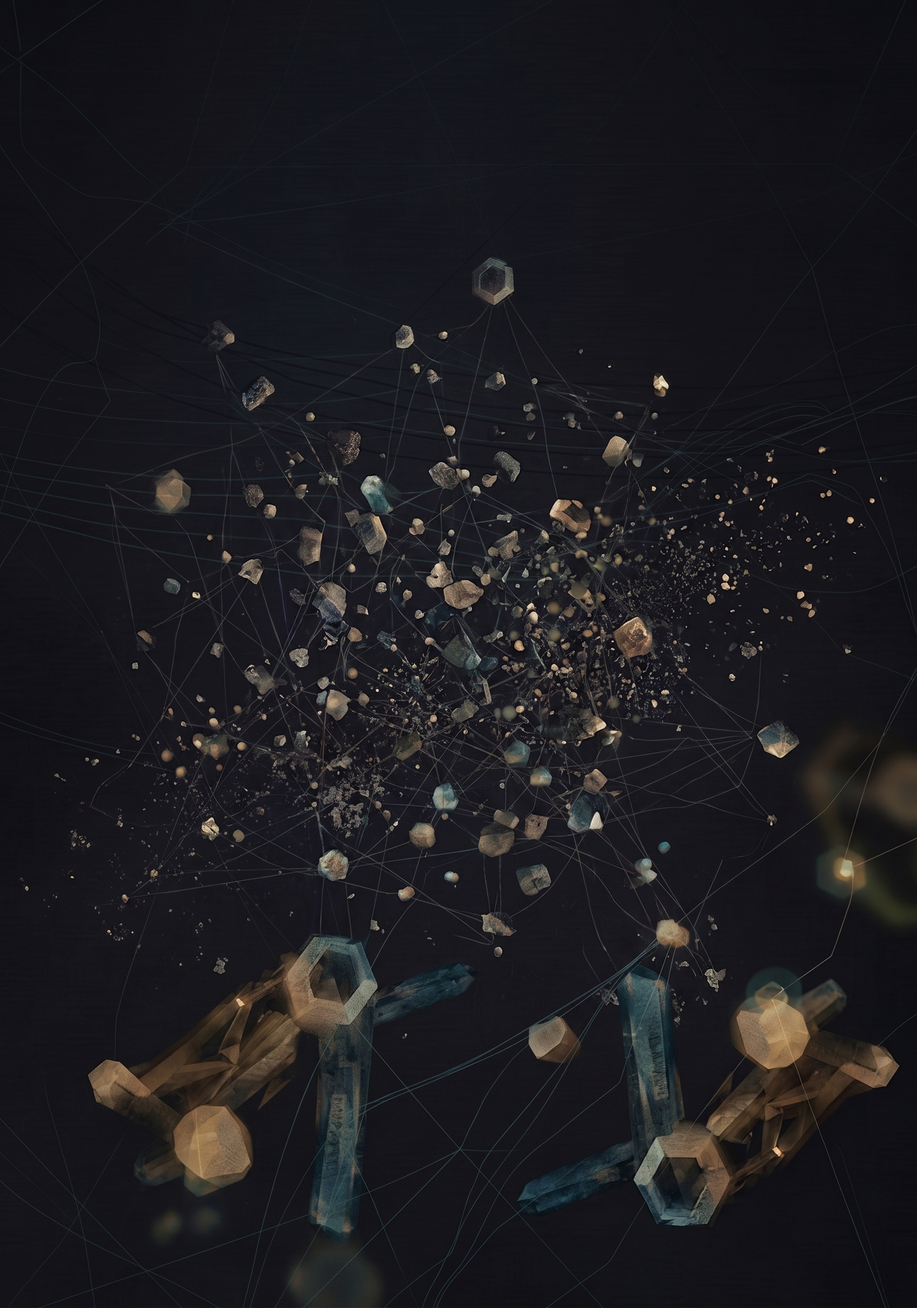
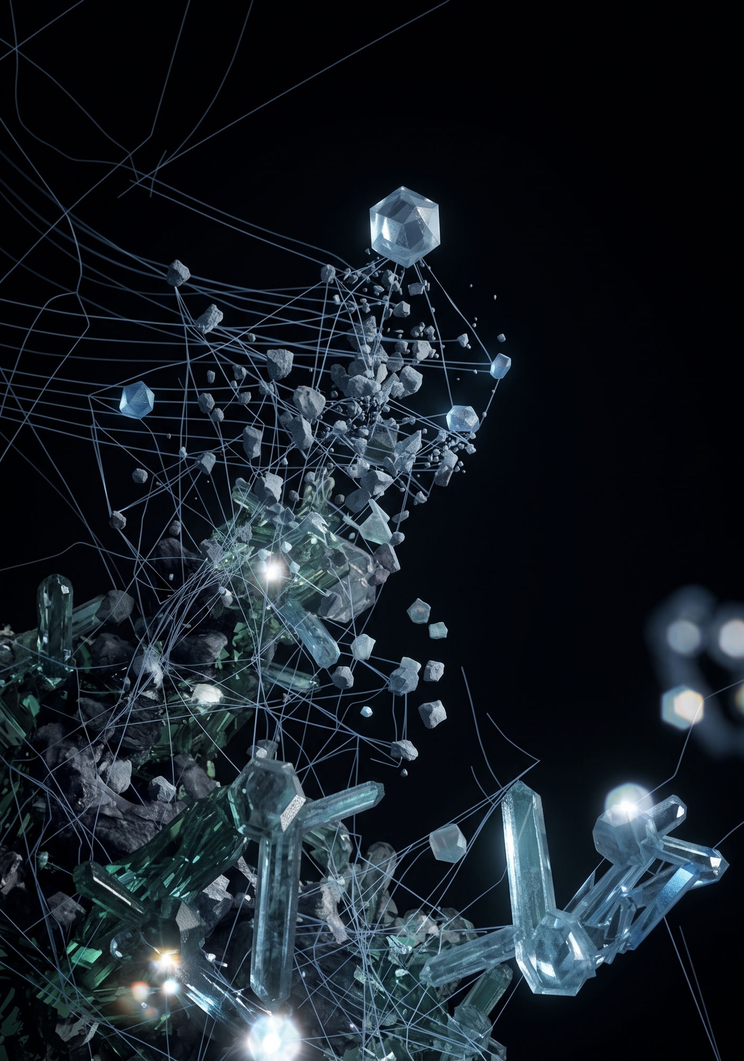
Final page BGs, dial back hero tint overcorrection, carbon-style modals, slower highlight sweep
- page-structure-dark/light.jpeg: swapped to the final crystal-network
  renders ("this will be for now the final one").
- Hero light-theme tint: previous fix (0.9/0.82/0.88) overcorrected and
  hid the software screenshot entirely (live feedback: "die software
  auch garnicht mehr im hero... vollkommen überschattet") - settled at
  0.62/0.52/0.6, lighter than the original muddy wash but the photo
  stays visible. Also flattened the gradient's dip at the 52% stop,
  which was the likely source of the original dark smudge under the
  headline.
- Identity-line contrast bar: sweep-in slowed from 0.55s to 1.3s (live
  feedback: "sollte doch von links nach rechts reinfahren und nicht so
  schnell einklappen").
- intelModal + reportModal: rebuilt onto the canonical always-dark
  carbon-gradient panel (same as checkout/proposal modals) with fixed
  light-hex text instead of var(--text*) tokens - those resolve dark in
  light mode and read as illegible dark-on-navy. Live feedback: ledger
  entry modals were "vollkommen schlecht" in white mode and "auch
  nichtmal in dem carbon style".

diff --git a/frontend/src/components/PublicSite.tsx b/frontend/src/components/PublicSite.tsx
@@ -733,10 +733,19 @@ export function PublicSite({ initialSection }: { initialSection?: string | null 
         // 2026-08-14: that's "the canonical template", this one was still the older
         // flat rgba(0,0,0,0.85) dim with no blur - now the same blur(14px) treatment).
         <div className="rfi-modal-backdrop" onClick={() => setReportModal(null)} style={{ position: 'fixed', inset: 0, zIndex: 9998, background: 'rgba(4,4,7,0.7)', backdropFilter: 'blur(14px)', WebkitBackdropFilter: 'blur(14px)', display: 'flex', flexDirection: 'column', alignItems: 'center', justifyContent: 'center', padding: '1rem' }}>
-          <div className="rfi-modal-panel" onClick={e => e.stopPropagation()} style={{ width: '100%', maxWidth: 900, height: '85vh', background: '#0e0e1e', border: '1px solid rgba(0,245,196,0.25)', borderRadius: 10, overflow: 'hidden', display: 'flex', flexDirection: 'column' }}>
-            <div style={{ display: 'flex', alignItems: 'center', justifyContent: 'space-between', padding: '10px 16px', borderBottom: '1px solid var(--border)', background: '#0a0a18' }}>
-              <span style={{ fontFamily: "'JetBrains Mono', monospace", fontSize: 11, color: 'var(--accent-text)', letterSpacing: '0.08em', textTransform: 'uppercase' }}>{t.reportModal.label}</span>
-              <button onClick={() => setReportModal(null)} style={{ background: 'none', border: 'none', color: 'var(--text3)', cursor: 'pointer', fontSize: 18, lineHeight: 1, padding: '2px 6px' }}>&#x2715;</button>
+          {/* Same always-dark carbon chrome as the checkout/intel modals (live
+              feedback 2026-08-14) - fixed light hex text, not var(--text*)/var(--accent-text),
+              which resolve dark in light mode and went illegible against this panel. */}
+          <div className="rfi-modal-panel" onClick={e => e.stopPropagation()} style={{
+            width: '100%', maxWidth: 900, height: '85vh', overflow: 'hidden', display: 'flex', flexDirection: 'column',
+            background: 'linear-gradient(155deg, #17171d 0%, #0a0a0c 28%, #050506 52%, #131319 76%, #08080a 100%), repeating-linear-gradient(112deg, rgba(255,255,255,0.04) 0px, rgba(255,255,255,0.04) 1px, transparent 1px, transparent 3px)',
+            backgroundBlendMode: 'overlay',
+            boxShadow: 'inset 0 1px 0 rgba(255,255,255,0.06), inset 0 0 50px rgba(0,0,0,0.55), 0 20px 60px rgba(0,0,0,0.65)',
+            border: '1px solid rgba(255,255,255,0.08)', borderRadius: 14,
+          }}>
+            <div style={{ display: 'flex', alignItems: 'center', justifyContent: 'space-between', padding: '10px 16px', borderBottom: '1px solid rgba(255,255,255,0.1)' }}>
+              <span style={{ fontFamily: "'JetBrains Mono', monospace", fontSize: 11, color: TEAL, letterSpacing: '0.08em', textTransform: 'uppercase' }}>{t.reportModal.label}</span>
+              <button onClick={() => setReportModal(null)} style={{ background: 'none', border: 'none', color: '#8a8aa0', cursor: 'pointer', fontSize: 18, lineHeight: 1, padding: '2px 6px' }}>&#x2715;</button>
             </div>
             <iframe src={reportModal} style={{ flex: 1, border: 'none', width: '100%' }} title={t.reportModal.iframeTitle} />
           </div>
@@ -757,10 +766,23 @@ export function PublicSite({ initialSection }: { initialSection?: string | null 
           // Blurred backdrop to match the checkout/proposal modals - same reasoning
           // as the Report PDF modal above.
           <div className="rfi-modal-backdrop" onClick={() => setIntelModal(null)} style={{ position: 'fixed', inset: 0, zIndex: 9998, background: 'rgba(4,4,7,0.7)', backdropFilter: 'blur(14px)', WebkitBackdropFilter: 'blur(14px)', display: 'flex', flexDirection: 'column', alignItems: 'center', justifyContent: 'center', padding: '1rem' }}>
-            <div className="rfi-modal-panel" onClick={e => e.stopPropagation()} style={{ width: '100%', maxWidth: 640, maxHeight: '85vh', background: '#0e0e1e', border: '1px solid rgba(0,245,196,0.25)', borderRadius: 10, overflow: 'hidden', display: 'flex', flexDirection: 'column' }}>
-              <div style={{ display: 'flex', alignItems: 'center', justifyContent: 'space-between', padding: '14px 20px', borderBottom: '1px solid var(--border)', background: '#0a0a18' }}>
-                <div style={{ fontFamily: "'JetBrains Mono', monospace", fontSize: 9, color: 'var(--text3)', textTransform: 'uppercase', letterSpacing: '0.06em' }}>{intelModal.target} · {intelModal.market} · {intelModal.sev}</div>
-                <button onClick={() => setIntelModal(null)} style={{ background: 'none', border: 'none', color: 'var(--text3)', cursor: 'pointer', fontSize: 18, lineHeight: 1, padding: '2px 6px' }}>&#x2715;</button>
+            {/* Same canonical carbon-gradient template as the checkout/proposal modals
+                (live feedback 2026-08-14: this one was still on a flat hardcoded navy
+                panel, "auch nichtmal in dem carbon style") - and, same as those, this
+                chrome is deliberately always-dark independent of the site theme
+                toggle, so every text color inside is a fixed light hex, NOT a
+                var(--text*) token (those resolve to near-black in light mode and read
+                as illegible dark-on-navy - the actual light-mode contrast bug). */}
+            <div className="rfi-modal-panel" onClick={e => e.stopPropagation()} style={{
+              width: '100%', maxWidth: 640, maxHeight: '85vh', overflow: 'hidden', display: 'flex', flexDirection: 'column',
+              background: 'linear-gradient(155deg, #17171d 0%, #0a0a0c 28%, #050506 52%, #131319 76%, #08080a 100%), repeating-linear-gradient(112deg, rgba(255,255,255,0.04) 0px, rgba(255,255,255,0.04) 1px, transparent 1px, transparent 3px)',
+              backgroundBlendMode: 'overlay',
+              boxShadow: 'inset 0 1px 0 rgba(255,255,255,0.06), inset 0 0 50px rgba(0,0,0,0.55), 0 20px 60px rgba(0,0,0,0.65)',
+              border: '1px solid rgba(255,255,255,0.08)', borderRadius: 14,
+            }}>
+              <div style={{ display: 'flex', alignItems: 'center', justifyContent: 'space-between', padding: '14px 20px', borderBottom: '1px solid rgba(255,255,255,0.1)' }}>
+                <div style={{ fontFamily: "'JetBrains Mono', monospace", fontSize: 9, color: '#606080', textTransform: 'uppercase', letterSpacing: '0.06em' }}>{intelModal.target} · {intelModal.market} · {intelModal.sev}</div>
+                <button onClick={() => setIntelModal(null)} style={{ background: 'none', border: 'none', color: '#8a8aa0', cursor: 'pointer', fontSize: 18, lineHeight: 1, padding: '2px 6px' }}>&#x2715;</button>
               </div>
               <div style={{ padding: '20px 22px', overflowY: 'auto' }}>
                 {/* Newspaper-style headline - the thing a visitor with zero technical
@@ -768,12 +790,12 @@ export function PublicSite({ initialSection }: { initialSection?: string | null 
                     nothing (meaning paragraph just runs first, as before) until every
                     ledger entry has one written - Simeon, 2026-08-08. */}
                 {intelModal.headline && (
-                  <h3 style={{ fontSize: 22, lineHeight: 1.3, fontWeight: 800, color: 'var(--text)', margin: '0 0 12px' }}>{intelModal.headline}</h3>
+                  <h3 style={{ fontSize: 22, lineHeight: 1.3, fontWeight: 800, color: '#e8e8f0', margin: '0 0 12px' }}>{intelModal.headline}</h3>
                 )}
-                <p style={{ fontSize: 15, lineHeight: 1.7, color: 'var(--text)', margin: 0 }}>{meaning}</p>
-                <div style={{ marginTop: 20, paddingTop: 14, borderTop: '1px solid var(--border2)' }}>
-                  <div style={{ fontFamily: "'JetBrains Mono', monospace", fontSize: 9, color: 'var(--text4)', textTransform: 'uppercase', letterSpacing: '0.08em', marginBottom: 6 }}>{t.intelModal.evidenceLabel}</div>
-                  <p style={{ fontFamily: "'JetBrains Mono', monospace", fontSize: 11, lineHeight: 1.6, color: 'var(--text3)', margin: 0 }}>{technical}</p>
+                <p style={{ fontSize: 15, lineHeight: 1.7, color: '#e8e8f0', margin: 0 }}>{meaning}</p>
+                <div style={{ marginTop: 20, paddingTop: 14, borderTop: '1px solid rgba(255,255,255,0.08)' }}>
+                  <div style={{ fontFamily: "'JetBrains Mono', monospace", fontSize: 9, color: '#606080', textTransform: 'uppercase', letterSpacing: '0.08em', marginBottom: 6 }}>{t.intelModal.evidenceLabel}</div>
+                  <p style={{ fontFamily: "'JetBrains Mono', monospace", fontSize: 11, lineHeight: 1.6, color: '#a0a0b8', margin: 0 }}>{technical}</p>
                 </div>
               </div>
             </div>

diff --git a/frontend/src/components/sections/Hero.tsx b/frontend/src/components/sections/Hero.tsx
@@ -59,16 +59,19 @@ export function HeroSection({ mobile, theme }: { mobile: boolean, theme: Theme }
       padding: 'calc(72px + 6vh) 2rem 72px',
       // Tint gradient only - the actual photo is the dedicated zoom layer below,
       // not this section's own background. Kept as a tint (not a full photo) for
-      // text legibility over whatever's showing through it. Light theme's tint
-      // sits over a dark night-mode dashboard shot, so a light, faded-out wash
-      // (as dark used) just blended into a muddy grey (live feedback 2026-08-14:
-      // "strange grey mess") - bumped near-opaque instead, so light mode reads as
-      // its own clean surface with only a faint ghost of the photo through it.
+      // text legibility over whatever's showing through it. Went near-opaque here
+      // once already (live feedback: "strange grey mess") - overcorrected, that
+      // hid the photo entirely (live feedback 2026-08-14: "die software auch
+      // garnicht mehr im hero... vollkommen überschattet"). Settled in between:
+      // lighter than the original faded wash, still see-through. The original's
+      // deep dip to 0.32 at the 52% stop (vs 0.55/0.5 either side) was likely
+      // what read as a dark smudge specifically where the headline sits - flattened
+      // that dip out too instead of just raising every stop by the same amount.
       background: theme === 'dark'
         ? 'radial-gradient(ellipse 80% 60% at 50% 40%, rgba(0,245,196,0.08) 0%, transparent 70%), linear-gradient(90deg, rgba(5,7,14,0.55) 0%, rgba(5,7,14,0.32) 52%, rgba(5,7,14,0.5) 100%)'
         : theme === 'hc'
           ? 'rgba(0,0,0,0.45)'
-          : 'radial-gradient(ellipse 80% 60% at 50% 40%, rgba(0,122,92,0.06) 0%, transparent 70%), linear-gradient(90deg, rgba(250,245,239,0.9) 0%, rgba(250,245,239,0.82) 52%, rgba(250,245,239,0.88) 100%)',
+          : 'radial-gradient(ellipse 80% 60% at 50% 40%, rgba(0,122,92,0.06) 0%, transparent 70%), linear-gradient(90deg, rgba(250,245,239,0.62) 0%, rgba(250,245,239,0.52) 52%, rgba(250,245,239,0.6) 100%)',
     }}>
       {/* Real screenshot of our own OSINT/monitoring software as the hero backdrop
           (live feedback 2026-08-14: "this is from the software itself"), with a slow
@@ -116,7 +119,7 @@ export function HeroSection({ mobile, theme }: { mobile: boolean, theme: Theme }
           aria-hidden="true"
           initial={prefersReducedMotion() ? undefined : { scaleX: 0 }}
           animate={{ scaleX: 1 }}
-          transition={{ duration: 0.55, delay: 0.5, ease: [0.16, 1, 0.3, 1] }}
+          transition={{ duration: 1.3, delay: 0.5, ease: [0.16, 1, 0.3, 1] }}
           style={{
             position: 'absolute', inset: '-1px -4px', zIndex: 0, borderRadius: 3, transformOrigin: 'left center',
             background: theme === 'dark'
